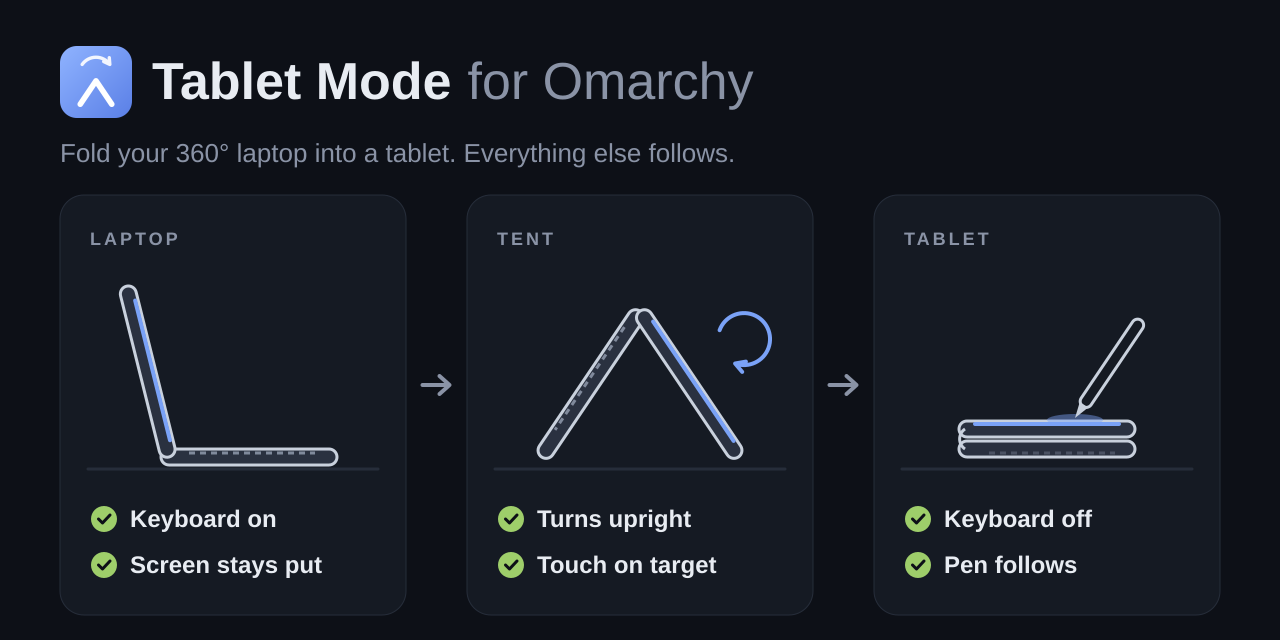
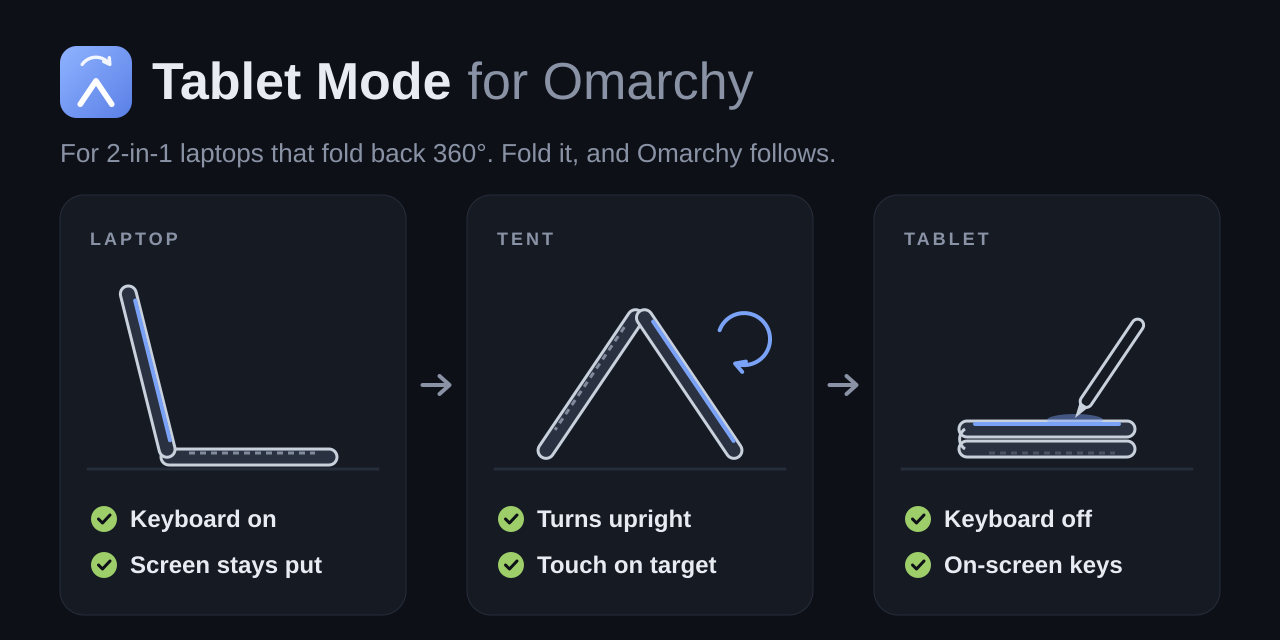
Say who the plugin is for before anything else
The hero said "your 360° laptop" and left the reader to work out whether
that meant theirs. It now names 2-in-1 laptops that fold back, lists the
families it is meant for, and links to the compatibility table. The catalog
preview says the same, and the tablet card shows the on-screen keyboard
rather than the pen, which not every machine has.

Changed region(s): [[0.0625, 0.2188, 0.6562, 0.2812], [0.7188, 0.875, 0.875, 0.9062]]

diff --git a/README.md b/README.md
@@ -5,8 +5,14 @@
 <h1 align="center">Tablet Mode for Omarchy</h1>
 
 <p align="center">
-  <b>Fold your 360° laptop into a tablet. Everything else follows.</b><br>
-  Auto-rotation, touch and pen that keep up, a keyboard that goes quiet.
+  <b>For 2-in-1 laptops whose screen folds back 360°.</b><br>
+  Fold it into a tablet and Omarchy follows: the screen turns with you, touch
+  stays on target, and the keyboard underneath goes quiet.
+</p>
+
+<p align="center">
+  <sub>ThinkPad Yoga · HP Spectre and Envy x360 · Dell XPS and Latitude 2-in-1 ·
+  Lenovo Yoga · ASUS Zenbook Flip — <a href="#will-it-work-on-my-laptop">will it work on mine?</a></sub>
 </p>
 
 <p align="center">
@@ -18,7 +24,7 @@
 
 <picture>
   <source media="(prefers-color-scheme: dark)" srcset="assets/hero-dark.svg">
-  <img src="assets/hero-light.svg" alt="One laptop folding from laptop to tent to tablet. As a laptop, the keyboard stays on and the screen stays put. As a tent, the screen turns upright and touch stays on target. As a tablet, the keyboard switches off and the pen follows the screen.">
+  <img src="assets/hero-light.svg" alt="One laptop folding from laptop to tent to tablet. As a laptop, the keyboard stays on and the screen stays put. As a tent, the screen turns upright and touch stays on target. As a tablet, the keyboard switches off and an on-screen keyboard comes up.">
 </picture>
 
 ## The problem
